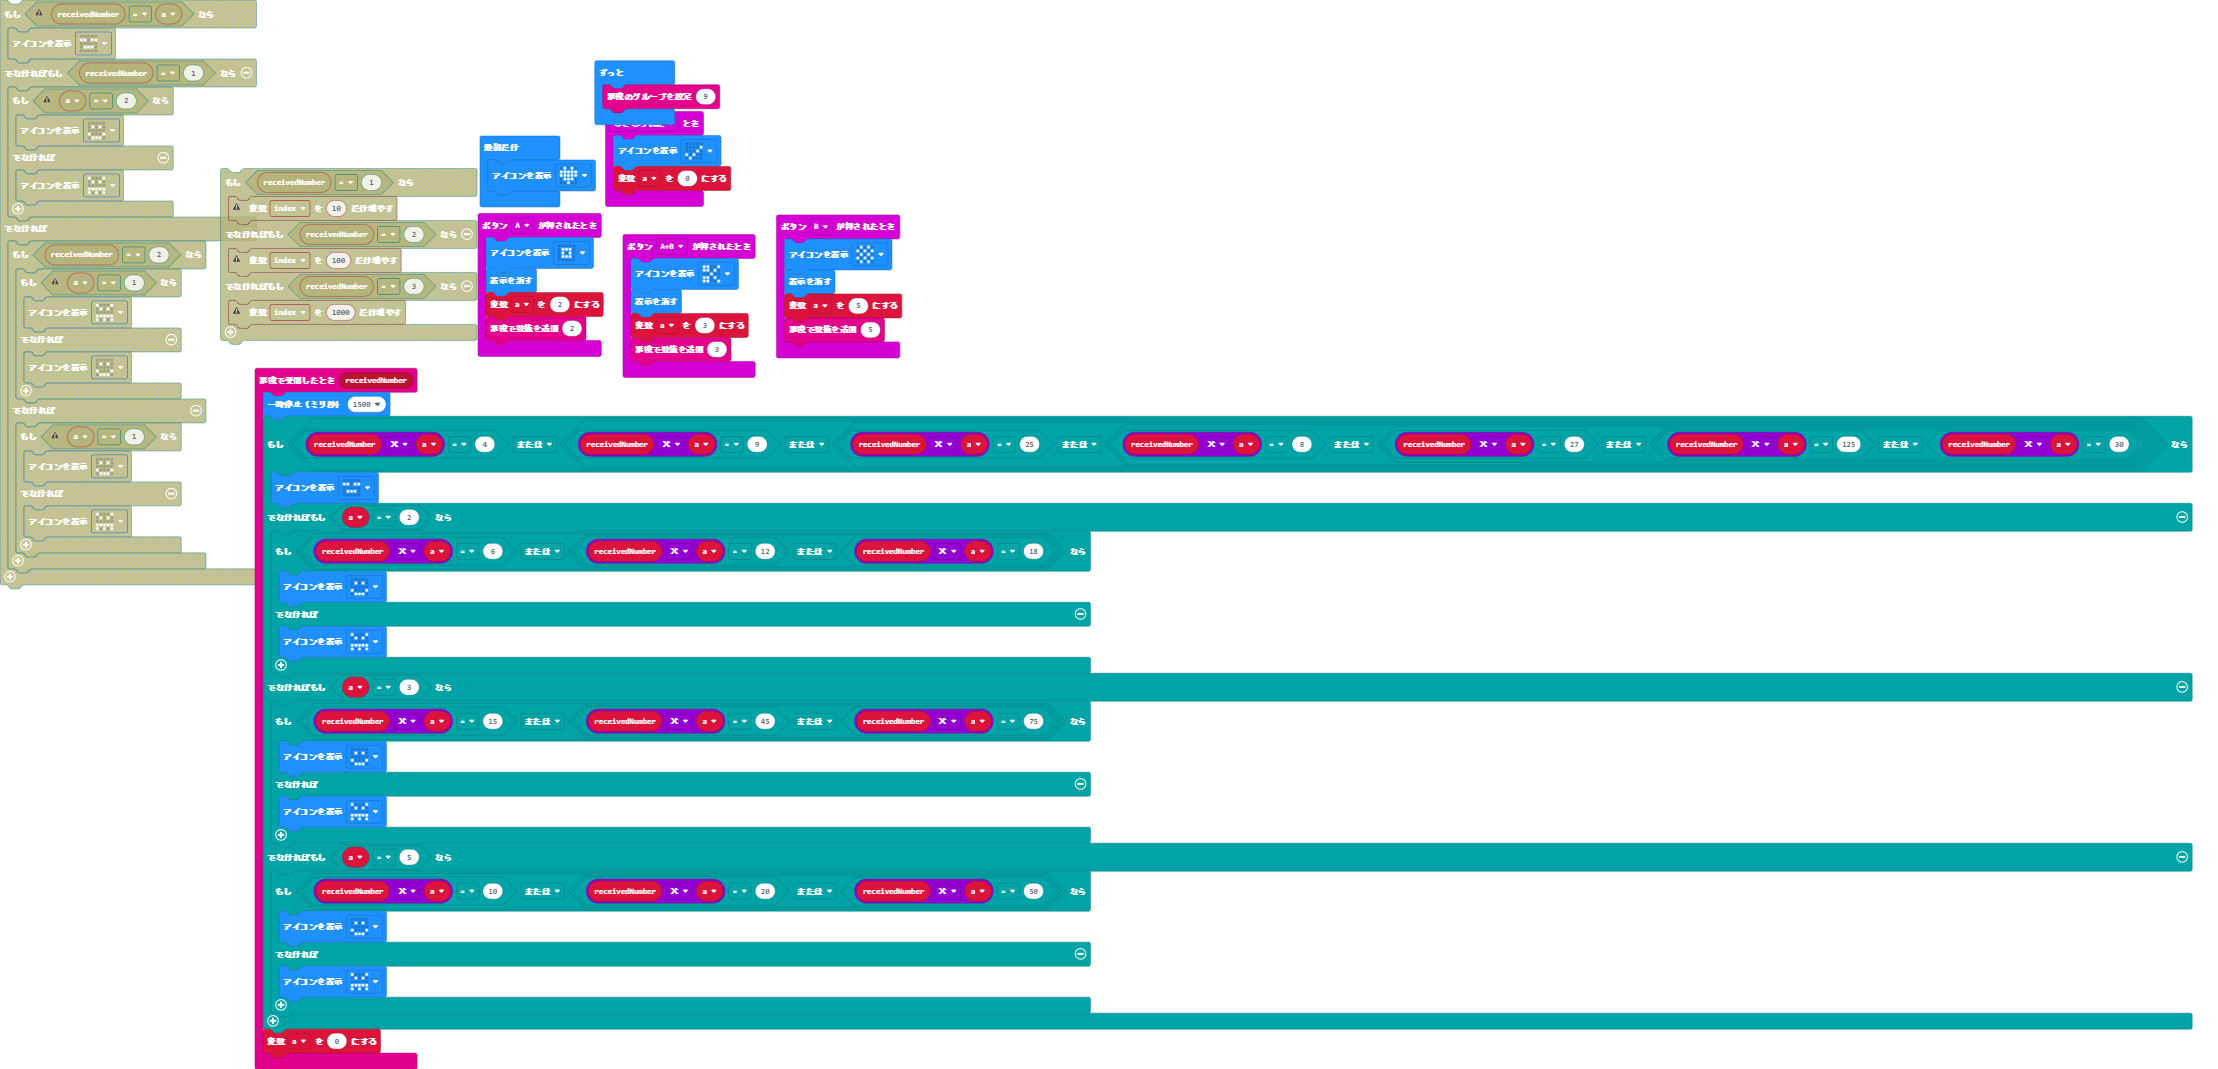
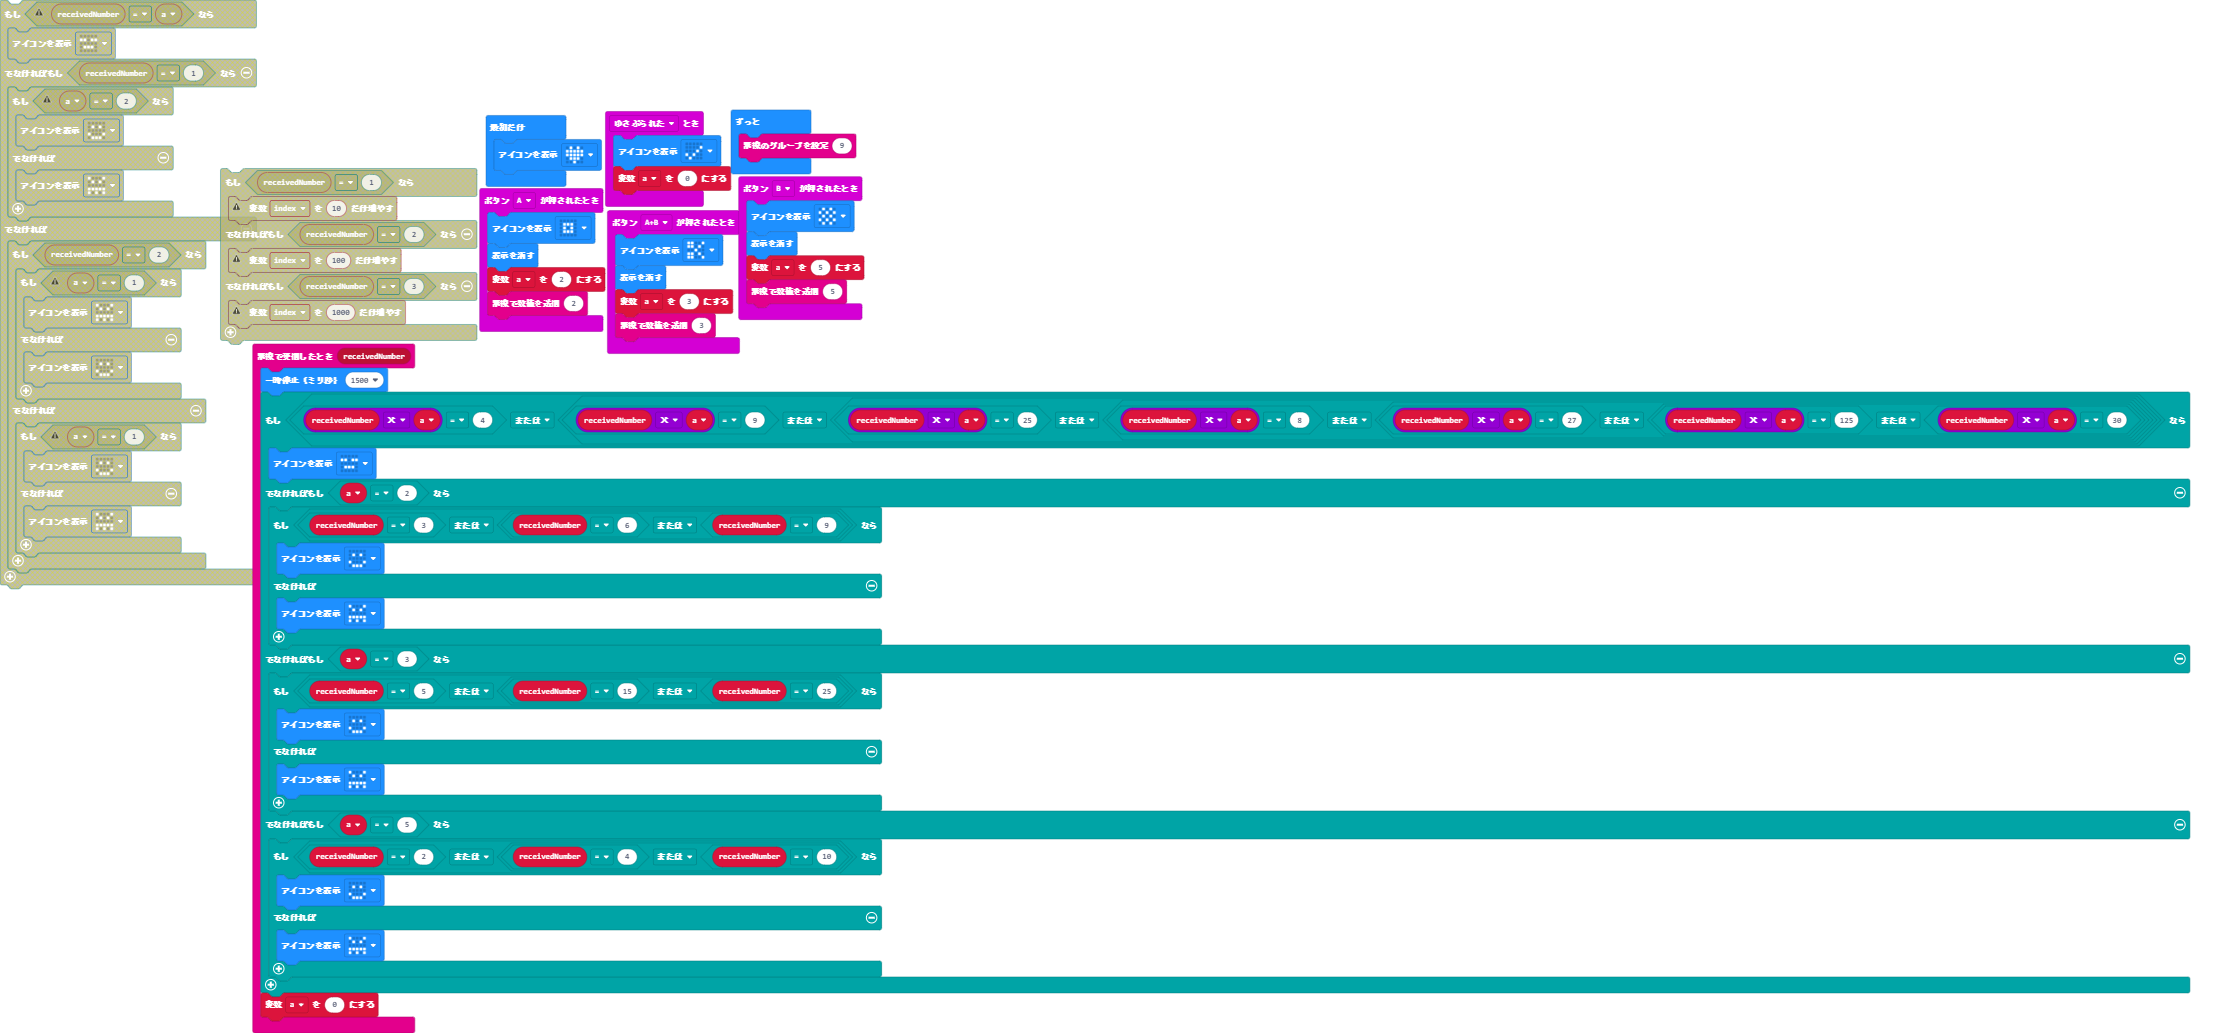
Update main.blocks, main.ts

Changed region(s): [[0.0, 0.0, 0.9964, 0.9913]]

diff --git a/main.ts b/main.ts
@@ -3,19 +3,19 @@ radio.onReceivedNumber(function (receivedNumber) {
     if (receivedNumber * a == 4 || (receivedNumber * a == 9 || (receivedNumber * a == 25 || (receivedNumber * a == 8 || (receivedNumber * a == 27 || (receivedNumber * a == 125 || receivedNumber * a == 30)))))) {
         basic.showIcon(IconNames.Asleep)
     } else if (a == 2) {
-        if (receivedNumber * a == 6 || (receivedNumber * a == 12 || receivedNumber * a == 18)) {
+        if (receivedNumber == 3 || (receivedNumber == 6 || receivedNumber == 9)) {
             basic.showIcon(IconNames.Happy)
         } else {
             basic.showIcon(IconNames.Angry)
         }
     } else if (a == 3) {
-        if (receivedNumber * a == 15 || (receivedNumber * a == 45 || receivedNumber * a == 75)) {
+        if (receivedNumber == 5 || (receivedNumber == 15 || receivedNumber == 25)) {
             basic.showIcon(IconNames.Happy)
         } else {
             basic.showIcon(IconNames.Angry)
         }
     } else if (a == 5) {
-        if (receivedNumber * a == 10 || (receivedNumber * a == 20 || receivedNumber * a == 50)) {
+        if (receivedNumber == 2 || (receivedNumber == 4 || receivedNumber == 10)) {
             basic.showIcon(IconNames.Happy)
         } else {
             basic.showIcon(IconNames.Angry)
